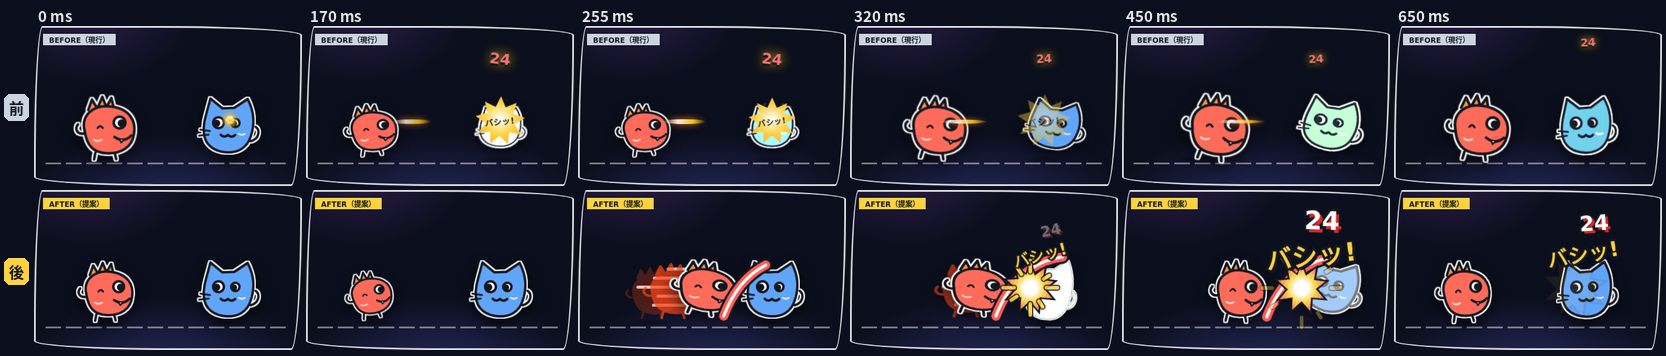
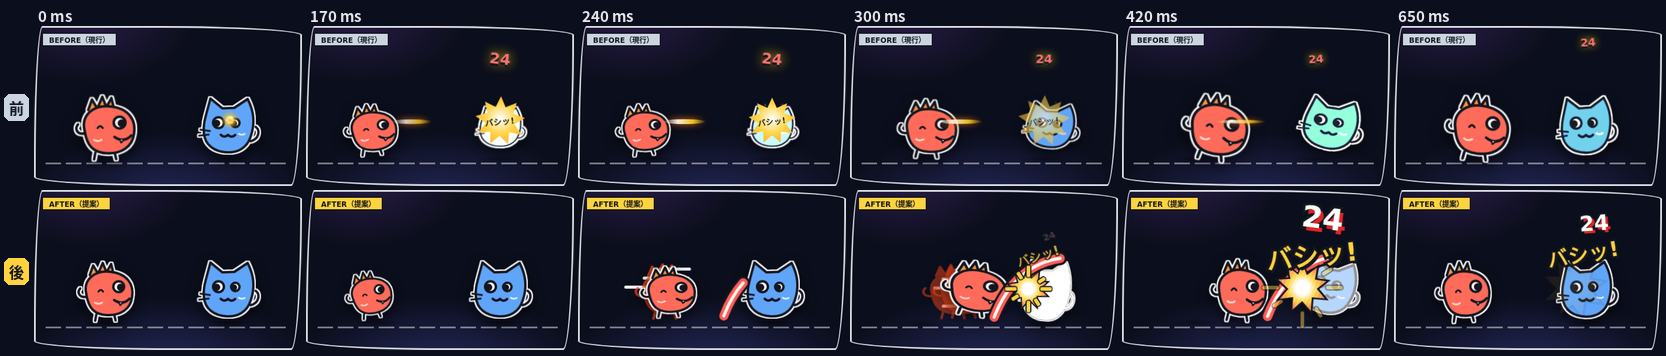
Add effects preview README with proposal and implementation plan; validate capture params

diff --git a/docs/effects-preview/preview.js b/docs/effects-preview/preview.js
@@ -404,7 +404,9 @@ const SCENES = [
 ];
 
 function renderStage(stageEl, sceneId, variant) {
-  const scene = (variant === "before" ? BEFORE : AFTER)[sceneId]();
+  const builders = variant === "before" ? BEFORE : AFTER;
+  if (!Object.hasOwn(builders, sceneId)) return;
+  const scene = builders[sceneId]();
   const world = stageEl.querySelector(".fx-world");
   world.className = `fx-world ${scene.world ?? ""}`;
   world.style.animation = scene.shake ?? "";
@@ -436,8 +438,8 @@ function main() {
   // 撮影モード: ?scene=attack&variant=after&capture=1
   if (params.get("capture") === "1") {
     document.documentElement.classList.add("fx-capture");
-    const sceneId = params.get("scene");
-    const variant = params.get("variant") ?? "after";
+    const sceneId = SCENES.find((s) => s.id === params.get("scene"))?.id ?? SCENES[0].id;
+    const variant = params.get("variant") === "before" ? "before" : "after";
     root.innerHTML = stageMarkup(sceneId, variant);
     renderStage(root.querySelector(".fx-stage"), sceneId, variant);
     window.__fxReady = true;

diff --git a/docs/effects-preview/README.md b/docs/effects-preview/README.md
@@ -1,0 +1,141 @@
+# バトルエフェクト強化案プレビュー（Before / After）
+
+ゲーム本体のコードは変更せずに、バトル中のエフェクト強化案を確認するための **スタンドアロンのプレビュー** です。
+オーナーが方向性を決めたあと、別タスクで本実装します。
+
+| ファイル | 内容 |
+| --- | --- |
+| `index.html` | プレビューページ。全シーンの BEFORE / AFTER を並べて再生する |
+| `preview.js` | シーンの組み立て。BEFORE は `MoveMotionOverlay.tsx` / `BattlePanel.tsx` のインラインスタイルを同じ値で再現 |
+| `after.css` | **強化案の本体**（`fx-` 接頭辞の keyframes / クラス）。本実装時に移植する部分 |
+| `preview.css` | プレビューページ自体のレイアウト（提案とは無関係） |
+| `assets/*.svg` | プレビュー用のラクガキキャラ 2 体 |
+| `img/*-frames.jpg` | 連続フレーム（上段 = 現行、下段 = 提案） |
+| `img/*.gif` | 実時間の GIF（左 = 現行、右 = 提案） |
+
+## 見かた
+
+ビルドは不要です。BEFORE は本番の `frontend/src/app/globals.css` を相対パスで直接読み込むため、リポジトリのルートを配信してください。
+
+```bash
+# リポジトリのルートで
+npx serve .        # または python3 -m http.server
+# → http://localhost:3000/docs/effects-preview/ を開く
+```
+
+- 「▶ もう一度」でシーンごとに再生、「くりかえし再生」で自動ループします。
+- `?reduced=1` を付けると、`prefers-reduced-motion: reduce` のときの見え方になります。
+- `?capture=1&scene=attack&variant=after` で 1 ステージだけを表示します（撮影用）。
+- `globals.css` 先頭の `@import "tailwindcss"` はブラウザでは解決できず 404 になりますが、影響はありません。
+
+### 画像の撮り方
+
+Playwright で `?capture=1` のページを開き、`document.getAnimations()` をすべて一時停止して `currentTime` を指定時刻に合わせてから撮影しています（コマ落ちのない確定的なフレーム）。
+GIF は 50ms 間隔のフレームを Pillow で結合し、gifsicle（`-O3 --lossy=40`）で軽量化しました。撮影時は、比較しやすいように待機モーション（`doodleIdleFloat` / `groundShadowBreath`）だけ 0ms に固定しています。
+
+## 現状の把握（BEFORE）
+
+| 項目 | 現状 | 課題 |
+| --- | --- | --- |
+| ヒットのタイミング | `BattlePanel.tsx` の `runPhase` で、フェーズ開始と同時に `hitIds` / `impactEffects`（`comic-burst`・`impactParticles`）/ ダメージ数字 / 画面揺れを出している | こうげきの踏み込みが届く（`attackLunge` の 50% ≒ 360ms）前や、まほう弾が届く（0.3s 遅延 + 飛翔）前に「バシッ!」が出る。**当たった瞬間**が伝わらない |
+| こうげき | `attackLunge`（0.72s）+ `AttackTrailEffect`（横長の細い線 72px） | 軌跡が線 1 本で、斬撃・打撃に見えにくい。ため・ヒットストップがない |
+| バリア | `BarrierWallEffect`（幅 12px の縦の光の棒）。割れは `scaleY` で縮むだけ。衝突は棒が 50px ずつ動くだけ | 「壁を張った」「割れた」「ぶつかった」が読み取りにくい。光の棒は SF 寄りでラクガキの世界観と離れている |
+| まほう | `MagicBullet` は弱・強とも同じ紫のグラデーション（サイズ 24px / 36px の差のみ）。`MagicRuneEffect` も円の大きさの差のみ | 弱まほう = 青（ACTION_COLORS）と合っていない。強まほうの「ため」と「着弾の爆発」がない |
+| 反射 | `barrierReflect` で弾が同じ直線上を行って戻る | 跳ね返ったことが分かりにくい |
+| チャージ | `chargeConcentration` + `ChargeAuraEffect`（黄色の楕円）+ 黄色いグロー | 行動色（緑）と不一致。通常バトルでは段階差がない（overcharged の見た目は協力モードの青いグローのみ） |
+| パフォーマンス | `hitFlash` / `chargeGlowPortrait` / `magicPortraitGlow` / `barrierBreak` が `filter` を、`chargeGlow` が `box-shadow` をアニメーションしている | どちらもコンポジタで処理できず、低スペック端末で毎フレーム再描画になる |
+
+## 強化案（AFTER）
+
+デザイン方針: クレヨン / マーカーで描いたような **インクの縁取り（#14161f）+ 行動色の塗り + 斜線のムラ**、ギザギザのバースト、マンガの集中線、描き文字の擬音。SF のビームのような発光表現は使わず、キャラ（プレイヤーの絵）より目立ちすぎない大きさに抑えます。
+
+### 共通の仕組み
+
+- **ヒットの瞬間をそろえる**: ステージに `--hit`（ms）を渡し、バースト・火花・擬音・白フラッシュ・ダメージ数字・画面揺れを `animation-delay: var(--hit)` で同時に出す。
+- **ヒットストップ**: こうげき側の keyframes に「同じ姿勢のまま止まる区間」（通常 30〜40% ≒ 85ms、チャージ中 30〜46% ≒ 135ms）を入れ、被弾側も同じ時間「くの字」で止める。
+- **白フラッシュ**: 画像の複製に静的な `filter: brightness(0) invert(1)` をかけた白シルエットを重ね、`opacity` だけを点滅させる（`filter` はアニメーションしない）。
+- **ダメージ数字**: 着弾点から飛び出し、1.5 倍まで膨らんでから傾いて止まる。行動色のずらし影（こうげき = 赤、弱まほう = 青、強まほう = 紫）。
+
+### 1 アクションあたりの演出時間の目安
+
+フェーズ間隔（`TURN_PHASE_INTERVAL_MS = 850`）の中に収めます。ダメージ数字だけは現行どおり次のフェーズにまたがって消えてよいものとします。
+
+| アクション | 全体 | ヒットの瞬間 |
+| --- | --- | --- |
+| こうげき（通常 / チャージ中） | 850ms | 255ms（ため 0〜190ms → 突進 → ヒットストップ 85 / 135ms） |
+| バリア展開 | 750ms | 展開完了 ≒ 220ms |
+| バリア割れ | 850ms | 接触 255ms → 割れ 357ms |
+| バリア衝突 | 750ms | 230ms |
+| まほう反射 | 850ms | 壁に当たる 340ms → 術者に当たる 612ms |
+| 弱まほう | 850ms | 442ms |
+| 強まほう | 850ms | ため 0〜340ms → 着弾 510ms |
+| チャージ | 800ms | 脈動 2 回（270ms / 470ms）。以降は軽い待機オーラのループ |
+
+### こうげき
+
+![こうげき（通常）](img/attack-frames.jpg)
+![こうげき（チャージ中）](img/attackCharged-frames.jpg)
+
+- **何をどう変えるか**: ため（後ろに沈む）→ 突進（赤い残像 2 体 + 白いスピード線）→ ヒットストップ → 赤いクレヨンの斬撃の弧 + 黄色いギザギザのバースト + 火花 +「バシッ!」→ 被弾側がふっとぶ。
+- **チャージ中**: ためが深く、ヒットストップが長い。残像 3 体、オレンジの X 字の斬撃、衝撃波のリング、画面全体の集中線、「ドカンッ!!」、画面揺れを大きく（6px）。
+
+### バリア
+
+![バリア展開](img/barrierWall-frames.jpg)
+![バリアが割れる](img/barrierBreak-frames.jpg)
+![バリア同士の衝突](img/barrierClash-frames.jpg)
+![まほう反射](img/magicReflect-frames.jpg)
+
+- **展開**: オレンジのマーカーで描いた弓なりの二重線の壁が、地面から線を描くように伸びる（`stroke-dashoffset`）。中は斜線のハッチング、足元に波紋、上下に ✦ のきらめき、「キィン!」。
+- **割れる**: 当たった点から波紋 3 重 + ヒビが走り、壁が震えたあと、破片 8 枚が回転しながら放物線を描いて飛び散る。「パリーン!」。
+- **衝突**: 両者の壁が押し出して中央でぶつかり、ヒットストップ → 押し戻される。中央に白い閃光と黄色い火花、「ガキィン!」、小さな画面揺れ。
+- **反射**: 弾が壁に当たると壁がたわみ、「カキーン!」。弾はオレンジの縁取りに変わって **山なりの軌道** で戻り、オレンジの点線で「跳ね返った道すじ」を残す。
+
+### まほう
+
+![弱まほう](img/magicWeak-frames.jpg)
+![強まほう](img/magicStrong-frames.jpg)
+
+- **弱まほう（青）**: 足元に小さな魔法陣（十字）。インクの縁取りの青い弾 + 点線のような尾。着弾で小さな青いバースト、「ポンッ!」。
+- **強まほう（紫）**: 浮き上がって溜める時間（約 340ms）。大きな二重円 + 星の魔法陣を描き、粒子が手元へ収束し、弾がふくらむ。紫の集中線。長い尾を引いて飛び、着弾で大きなバースト + 衝撃波 + 煙 3 つ +「ドーン!!」+ 画面揺れ。
+
+### チャージ
+
+![チャージ](img/charge-frames.jpg)
+![オーバーチャージ](img/overcharge-frames.jpg)
+
+- **charged（緑）**: 沈み込み → 2 回の脈動。足元から緑の炎が立ちのぼり、粒子が体に収束、緑の集中線、体が緑に光る（シルエットの `opacity`）、地面の波紋 2 回、「ハァァッ!」。終わったあとは足元に軽い楕円オーラが残る。
+- **overcharged（緑 + 金）**: 炎を大きく・多く（11 本）、金色の先端、稲妻、細かい震え、わずかな地鳴り（1.5px）、「ゴゴゴ…!!」。待機オーラも金色に。
+
+### 共通（既存演出との統一感）
+
+- 勝ち・ダメージ・回避・まひも同じ部品（インクの縁取り、描き文字、ギザギザのバースト、ずらし影）でそろえる。例: 回避は青いスピード線 +「ヒョイッ」、まひは黄色いギザギザ線 +「ビリビリ」。
+- 既存の `comic-burst` / `damageStickerPop` / `sticker-text` の見た目はそのまま発展させる方向。
+
+## 実装時に変更するファイル
+
+| ファイル | 変更内容 |
+| --- | --- |
+| `frontend/src/app/globals.css`（または新規 `battle-effects.css` を `globals.css` から読み込む） | `after.css` の keyframes / クラスを移植。既存の `attackTrail` / `barrierWall` / `barrierBreak` / `barrierClash` / `chargeAura` などは置き換え。`prefers-reduced-motion` のブロックに新しいクラスを追加 |
+| `frontend/src/components/Battle/MoveMotionOverlay.tsx` | `AttackTrailEffect` → SVG の斬撃（`AttackSlashEffect`）+ 残像（`AttackGhosts`）。`BarrierWallEffect` → SVG の壁 + 波紋 / ヒビ / 破片。`MagicBullet` → `sourceActionType` で色を分け、尾を追加。`MagicRuneEffect` → SVG の魔法陣。`ChargeAuraEffect` → 炎 / 収束粒子 / 段階（charged / overcharged）。新規 `ImpactEffect`（バースト + 火花 + 擬音）、`FocusLines` |
+| `frontend/src/components/Battle/BattlePanel.tsx` | ① アリーナ全体に重ねる `BattleFxLayer` を追加（弾の飛翔・反射の軌道・衝突の中心・集中線など、キャラをまたぐ演出用）。② `runPhase` で、`hitIds` / `impactEffects` / ダメージ数字 / 画面揺れを **フェーズ開始ではなくヒットの瞬間** に出す（`schedule` で遅らせる）。③ 白フラッシュ用のシルエット画像を `portrait-hit-filter` の中に追加し、`hitFlash`（filter アニメーション）を置き換え |
+| `frontend/src/components/Battle/battleAnimationPhases.ts` | `TurnAnimationPhase` に `impactDelayMs`（または `getImpactTiming(motionType, sourceActionType, chargeMultiplier)`）を追加。反射時のバリア側を区別する `MoveMotionType` の `"barrierReflect"` を追加。チャージ段階を表す `motionIntensity: "normal" \| "charged" \| "overcharged"` を追加（`coopRoguelike.ts` の段階判定を通常バトルにも使う） |
+| テスト | `MoveMotionOverlay.test.ts`（アニメーション名・方向）、`battleAnimationPhases.test.ts`（ヒット時刻・新しいモーション種別）、`BattlePanel.test.ts`（ヒット演出の遅延）を更新・追加 |
+
+## パフォーマンスとアクセシビリティ
+
+- アニメーションするのは **`transform`（`translate` / `rotate` / `scale`）と `opacity` だけ** を基本にする。`filter` / `box-shadow` は静的に指定し、光る・点滅するものは「静的な filter をかけた複製」の `opacity` で表現する。
+- 例外は SVG の線を描く `stroke-dashoffset`。要素が小さく 90〜220ms と短いので、コストは小さい。
+- 要素数の上限の目安: 1 アクションあたり DOM 30 個前後（火花 6〜12、破片 8、炎 7〜11、粒子 10〜14）。演出が終わったら DOM から外す（現行の `IMPACT_EFFECT_DURATION_MS` と同じ仕組み）。
+- 集中線は `repeating-conic-gradient` + `mask` の静的な 1 枚を `opacity` / `scale` で出し入れするだけ。
+- 低スペック端末向けに、`navigator.hardwareConcurrency` や設定画面の「演出: 軽量」で、残像 / 集中線 / 煙 / 破片の数を減らせるようにする（`data-fx-quality="low"` などのクラスで CSS 側から非表示にする）。
+- `prefers-reduced-motion: reduce` では、画面揺れ・残像・スピード線・集中線・粒子・破片・炎を止め、キャラの大きな移動もなくす。「何が起きたか」を伝える **描き文字 / バースト / ダメージ数字** だけを短く残す（`after.css` 末尾、`?reduced=1` で確認可）。
+- ターン制の読み合いを優先し、バーストは被弾側のキャラを長く隠さない大きさ（通常 92px、ピーク約 400ms）に抑える。
+
+## 段階的な実装計画
+
+1. **共通基盤 + こうげき**: `--hit` によるヒットタイミング同期（`battleAnimationPhases.ts` と `BattlePanel.tsx`）、白シルエットのフラッシュ、新しいダメージ数字、`ImpactEffect`、斬撃 / 残像 / スピード線、ヒットストップ。ここで reduced-motion と軽量モードの仕組みも作る。
+2. **バリア**: SVG の壁（展開 / 割れ / 衝突）、波紋、破片。`BattleFxLayer` を導入して衝突の中心に火花を出す。
+3. **まほう**: 弱・強の色分け、魔法陣、尾、強まほうのため・収束・爆発・煙。反射の山なり軌道と点線（`"barrierReflect"` の追加）。
+4. **チャージ**: 炎 / 収束粒子 / 脈動、charged / overcharged の段階差、待機オーラ（既存の `chargeGlowPortrait` の置き換え）。
+5. **画面全体の演出と統一**: 集中線、画面揺れの強さの整理、回避・まひ・勝ちの演出を同じ部品でそろえる。最終ボス（`final-boss-*`）の演出との重なりを調整。
